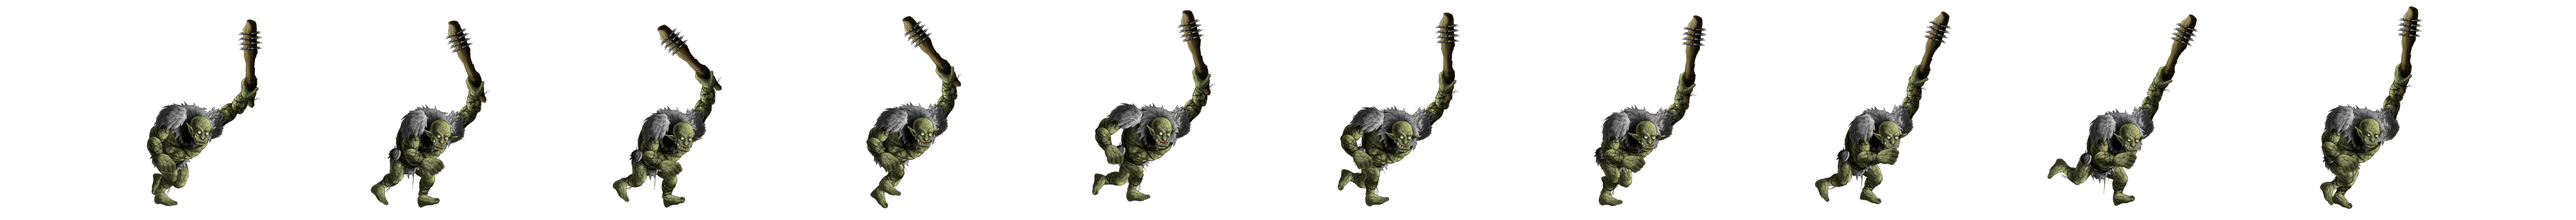
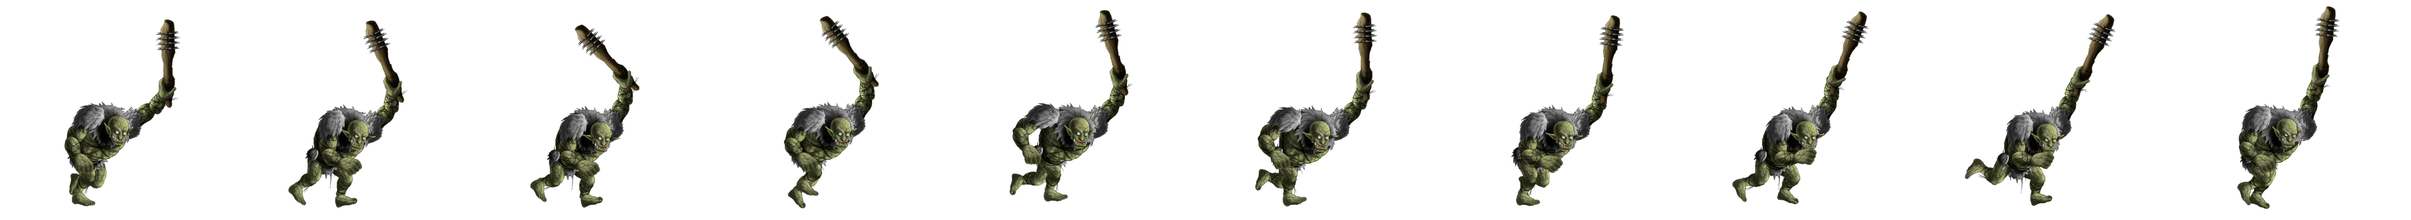
fix

diff --git a/src/Config/GameConstants.h b/src/Config/GameConstants.h
@@ -124,37 +124,37 @@ namespace GameConstants {
     constexpr int BOSS_IDLE_FRAMES = 10;
     constexpr float BOSS_IDLE_FRAME_DURATION = 0.12f;
     constexpr int BOSS_IDLE_FRAME_WIDTH = 700;
-    constexpr int BOSS_IDLE_FRAME_HEIGHT = 600;
+    constexpr int BOSS_IDLE_FRAME_HEIGHT = 641;
 
     constexpr int BOSS_WALK_FRAMES = 9;
     constexpr float BOSS_WALK_FRAME_DURATION = 0.10f;
     constexpr int BOSS_WALK_FRAME_WIDTH = 700;
-    constexpr int BOSS_WALK_FRAME_HEIGHT = 600;
+    constexpr int BOSS_WALK_FRAME_HEIGHT = 641;
 
     constexpr int BOSS_RUN_FRAMES = 10;
     constexpr float BOSS_RUN_FRAME_DURATION = 0.08f;
     constexpr int BOSS_RUN_FRAME_WIDTH = 700;
-    constexpr int BOSS_RUN_FRAME_HEIGHT = 600;
+    constexpr int BOSS_RUN_FRAME_HEIGHT = 641;
 
     constexpr int BOSS_JUMP_FRAMES = 10;
     constexpr float BOSS_JUMP_FRAME_DURATION = 0.12f;
     constexpr int BOSS_JUMP_FRAME_WIDTH = 700;
-    constexpr int BOSS_JUMP_FRAME_HEIGHT = 600;
+    constexpr int BOSS_JUMP_FRAME_HEIGHT = 641;
 
     constexpr int BOSS_ATTACK_FRAMES = 10;
     constexpr float BOSS_ATTACK_FRAME_DURATION = 0.09f;
     constexpr int BOSS_ATTACK_FRAME_WIDTH = 700;
-    constexpr int BOSS_ATTACK_FRAME_HEIGHT = 600;
+    constexpr int BOSS_ATTACK_FRAME_HEIGHT = 641;
 
     constexpr int BOSS_HURT_FRAMES = 10;
     constexpr float BOSS_HURT_FRAME_DURATION = 0.10f;
     constexpr int BOSS_HURT_FRAME_WIDTH = 700;
-    constexpr int BOSS_HURT_FRAME_HEIGHT = 600;
+    constexpr int BOSS_HURT_FRAME_HEIGHT = 641;
 
     constexpr int BOSS_DEAD_FRAMES = 10;
     constexpr float BOSS_DEAD_FRAME_DURATION = 0.15f;
     constexpr int BOSS_DEAD_FRAME_WIDTH = 700;
-    constexpr int BOSS_DEAD_FRAME_HEIGHT = 600;
+    constexpr int BOSS_DEAD_FRAME_HEIGHT = 641;
 
     // ===================== ELITE TROLL TYPE 1 =====================
     constexpr int ELITE_TROLL_1_IDLE_FRAMES = 10;
